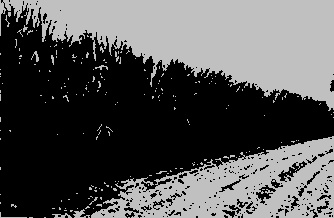
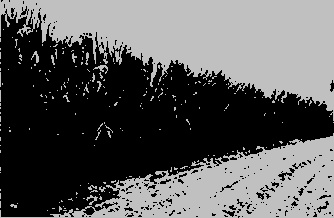
Update

diff --git a/clasificador_dE.py b/clasificador_dE.py
@@ -5,7 +5,7 @@ import skimage
 from skimage.feature import peak_local_max
 from scipy import ndimage as ndi
 import skimage.segmentation
-
+from sklearn.cluster import KMeans
 import matplotlib.pyplot as plt
 
 
@@ -60,50 +60,67 @@ image = cv2.imread('CMA-x1.png')
 gray = cv2.cvtColor(image,cv2.COLOR_BGR2GRAY) #Imagen en escala de grises
 
 
-th, binarized_image = cv2.threshold(gray, 128, 192, cv2.THRESH_OTSU)
+ret, binarized_image = cv2.threshold(gray, 128, 192, cv2.THRESH_BINARY)
+# Noise removal
+kernel = np.ones((3),np.uint8)
+opening_img = cv2.morphologyEx(binarized_image,cv2.MORPH_OPEN, kernel, iterations = 9)
 
-print(th)
+cv2.imshow("Opening image",opening_img)
+# Noise removal
+closing_img = cv2.morphologyEx(binarized_image,cv2.MORPH_CLOSE, kernel, iterations = 4)
+cv2.imshow("Closing image",opening_img)
 
 #Binarizando imagen
 cv2.imwrite('binarized_image.jpg', binarized_image)
-cv2.namedWindow("image")
 #Distancia Euclidea
 dist_transform = cv2.distanceTransform(binarized_image, cv2.DIST_L2,3)
 cv2.imwrite('dist_transform_image.jpg', dist_transform)
 euclidean =  cv2.imread('dist_transform_image.jpg')
 
+
 local_max_location = peak_local_max(dist_transform, min_distance=1)
 local_max_boolean = peak_local_max(dist_transform, min_distance=1)
 
-# print(local_max_boolean)
-img1 = np.zeros((7, 7))
-img1[2, 2] = 4
-img1[2, 4] = 7
-print(img1)
-peak_local_max(img1, min_distance=1)
-peak_local_max(img1, min_distance=2)
-markers, _ = ndi.label(local_max_boolean)
-#Esto no jala marca error  87
-segmented = skimage.segmentation.watershed(255-dist_transform, markers, mask=binarized_image)
-fig, axes = plt.subplots(ncols=3, figsize=(9, 3), sharex=True, sharey=True)
-ax = axes.ravel()
+kmeans = KMeans(n_clusters=30)
+kmeans.fit(local_max_location)
+local_max_location = kmeans.cluster_centers_.copy()
 
-ax[0].imshow(binarized_image, cmap=plt.cm.gray)
-ax[0].set_title('Input image')
-ax[1].imshow(-dist_transform, cmap=plt.cm.gray)
-ax[1].set_title('Distance transform')
-ax[2].imshow(segmented, cmap=plt.cm.nipy_spectral)
-ax[2].set_title('Separated objects')
+# Kmeans is returning a float data type so we need to convert it to an int. 
+local_max_location = local_max_location.astype(int)
 
-for a in ax:
-    a.set_axis_off()
+local_max_location.shape
+dist_transform_copy = euclidean.copy()
+for i in range(local_max_location.shape[0]):
+  cv2.circle( dist_transform_copy, (local_max_location[i][1],local_max_location[i][0]  ), 5, 255 )
+cv2.imshow("Copia Distancia Euclidea", dist_transform_copy)
 
-fig.tight_layout()
-plt.show()
+markers = np.zeros_like(dist_transform)
+labels = np.arange(kmeans.n_clusters)
+markers[local_max_location[:,0],local_max_location[:,1]   ] = labels + 1
 
-cv2.imshow("image", image)
+# Convert all local markers to an integer. This because cluster centers will be float numbers. 
+markers = markers.astype(int)
+
+markers_copy = markers.copy()
+index_non_zero_markers = np.argwhere(markers != 0)
+
+markers_copy = markers_copy.astype(np.uint8)
+
+index_non_zero_markers
+font = cv2.FONT_HERSHEY_SIMPLEX
+for i in range(index_non_zero_markers.shape[0]):
+  string_text = str(markers[index_non_zero_markers[i][0] ,index_non_zero_markers[i][1]    ])
+  cv2.putText( markers_copy, string_text, (index_non_zero_markers[i][1], index_non_zero_markers[i][0]), font, 1, 255)
+
+cv2.imshow("Enumeración de marcas", markers_copy)
+markers = markers.astype(np.int32)
+segmented = cv2.watershed(image, markers)
+cv2.imshow("Segmentacion", segmented)
+print(segmented)
+
+cv2.imshow("Imagen original", image)
 cv2.imshow("Euclidean Distance", euclidean)
-cv2.waitKey(1000)
+cv2.waitKey(0)
 cv2.setMouseCallback("image", on_EVENT_LBUTTONDOWN)
 
 # while(1):
